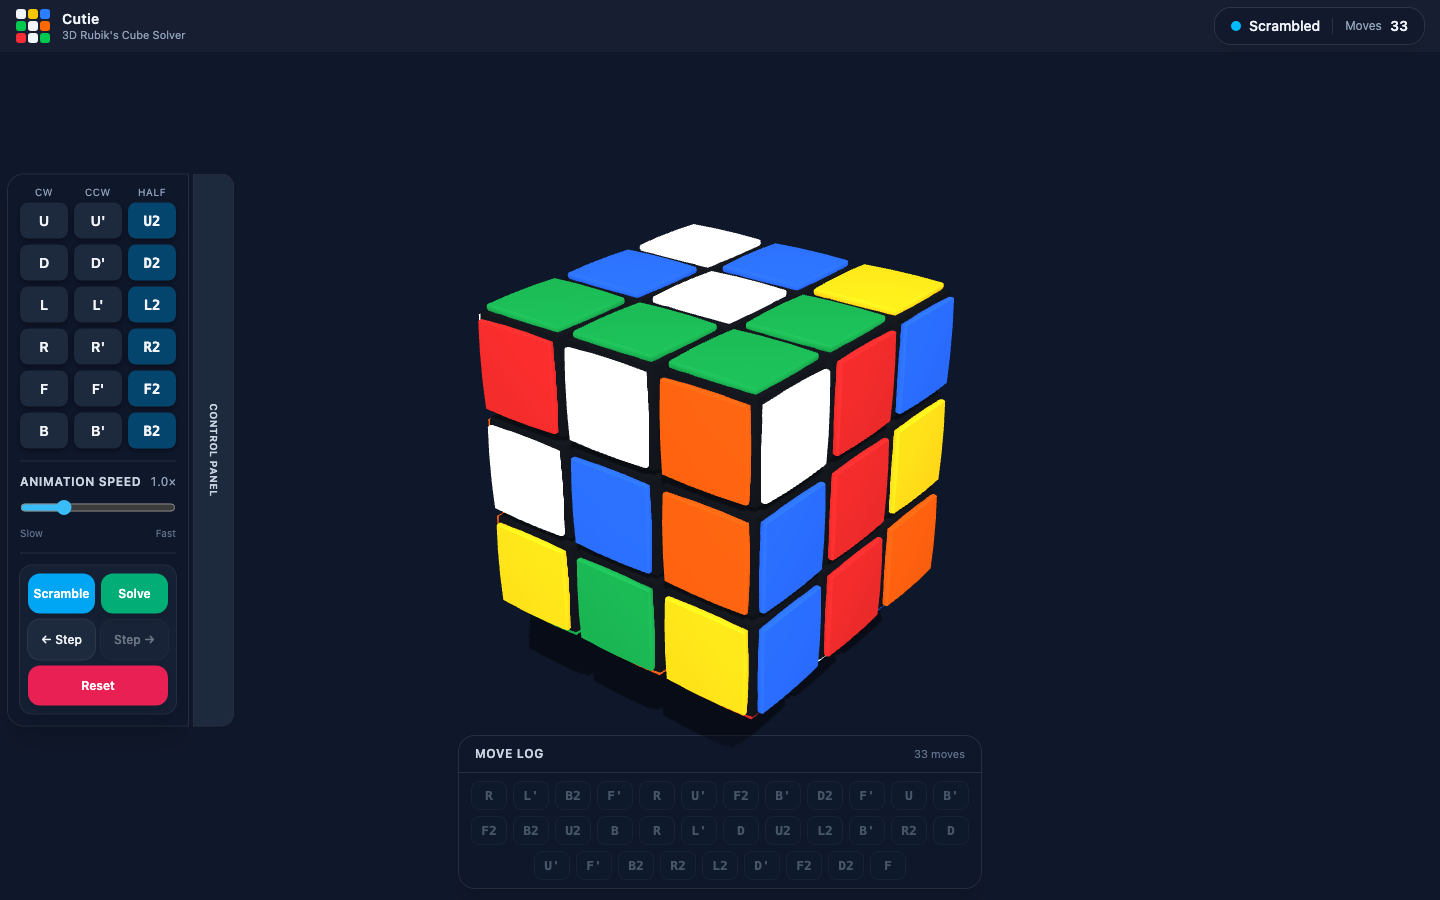
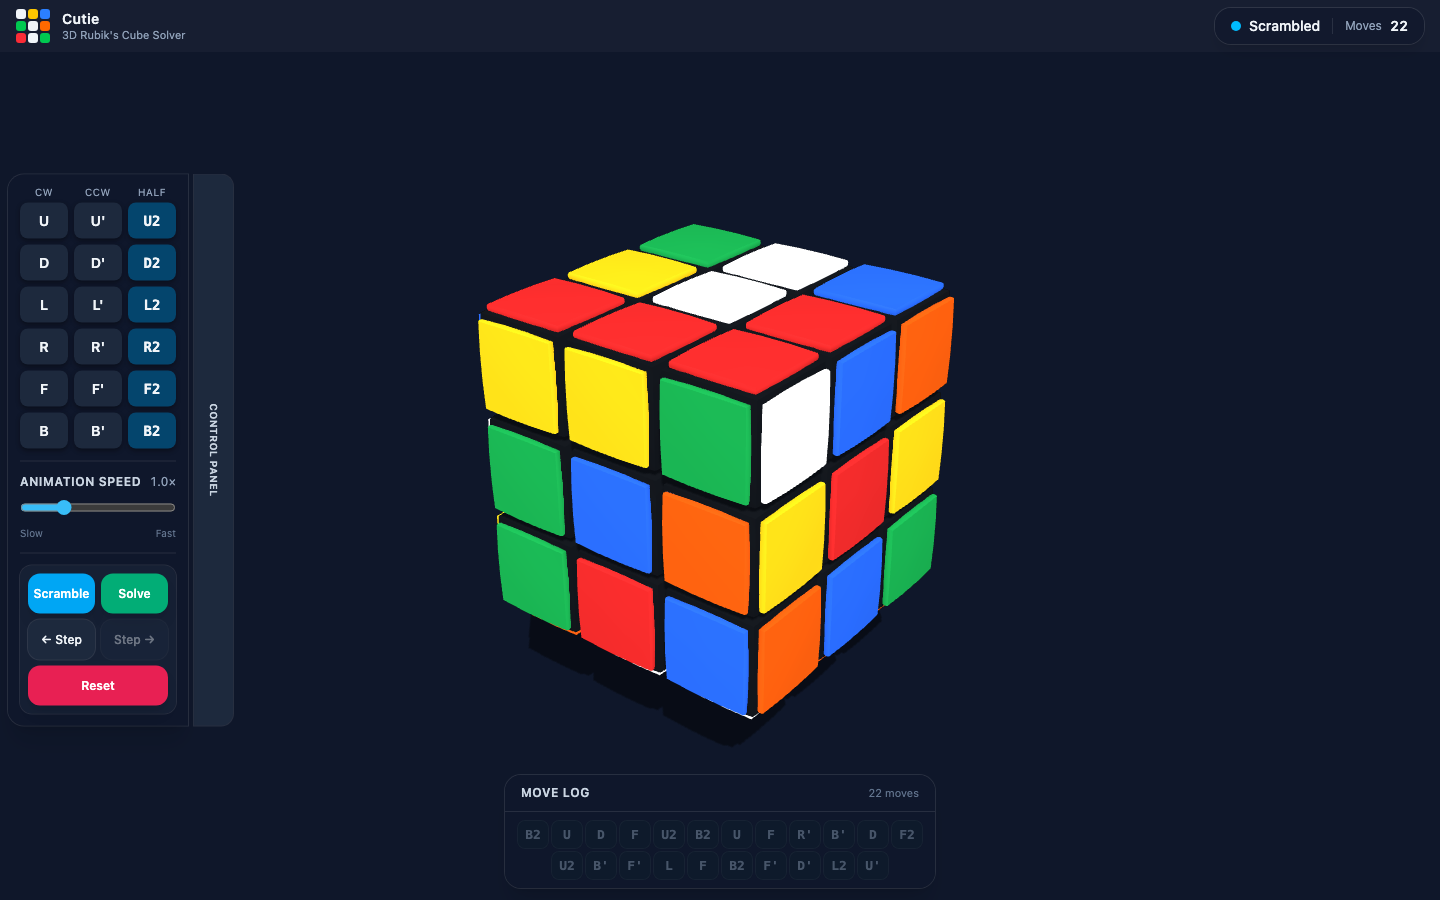
Tighten the Move Log, cap scrambles at 24, and rescale the toast
- Move Log: move buttons 40px -> 36px -> 32px (2rem, fixed, flex
  0 0 auto); button gap 6px -> 2px (gap-0.5); 12-per-row cap now
  calc(12*2rem + 11*0.125rem) = 406px (13 buttons need 440px, so
  the cap still guarantees <=12 per row).
- Scramble length: random range 18..35 -> 18..24 (inclusive);
  cursor-test range assertion and stale comments in tests/tools
  updated.
- Drag hint: whitespace-nowrap so it never wraps (verified
  single-line with no overflow at 360x780).
- Solver toast: label 40px -> 30px (text-[1.875rem]) and spinner
  48px -> 36px (w-9 h-9) - both shrunk by the same 0.75 ratio;
  card re-padded to natural toast sizing (gap-3 px-6 py-4, was
  gap-4 px-8 py-6). Overlay and show/hide logic untouched.
- Official screenshots regenerated; as-built doc updated for the
  range/nowrap (width + toast-text wording deferred).

diff --git a/index.html b/index.html
@@ -53,7 +53,7 @@
   .drawer-closed { transform: translateX(var(--drawer-shift)); }
   /* The tab reads vertically, like a binder tab on the panel's right edge. */
   .writing-vertical { writing-mode: vertical-rl; text-orientation: mixed; }
-  /* Move-log buttons: fixed 36px-wide tokens that wrap (up to 12 per row),
+  /* Move-log buttons: fixed 32px-wide tokens that wrap (up to 12 per row),
      styled to match the face buttons. The width is fixed — never a fluid grid
      fraction — so the wrap layout is identical at every screen size. Three
      visual states driven by state.playIndex:
@@ -63,7 +63,7 @@
   .move-btn {
     font-family: ui-monospace, SFMono-Regular, Menlo, monospace;
     font-size: 13px; font-weight: 600; line-height: 1;
-    width: 2.25rem; flex: 0 0 auto; /* fixed 36px: never stretches, always wraps */
+    width: 2rem; flex: 0 0 auto; /* fixed 32px: never stretches, always wraps */
     padding: 8px 0; text-align: center;
     border-radius: 8px; user-select: none;
     transition: background-color .12s ease, color .12s ease,
@@ -122,7 +122,7 @@
        wrapper is a full-width, bottom-anchored fixed strip that centers the
        card and lets pointer events pass through everywhere except the card
        itself (pointer-events-auto). The card hugs its content (up to 12 fixed
-       36px buttons per row) and caps at ~45vh: beyond that the log scrolls
+       32px buttons per row) and caps at ~45vh: beyond that the log scrolls
        internally (.scroll-thin) and the current move auto-scrolls into view.
        It overlays the full-viewport canvas with a backdrop blur — the cube
        and camera are untouched. -->
@@ -136,9 +136,9 @@
         <p id="log-empty" class="text-slate-500 text-xs leading-relaxed px-1 py-1">
           No moves yet. Use the buttons or keyboard to turn faces, then <b class="text-slate-300">Solve</b> to watch it come back.
         </p>
-        <!-- Fixed 36px buttons, up to 12 per row, wrapping to more rows and
-             centered; the max-width cap is 12 buttons + 11 gaps (0.375rem each). -->
-        <div id="log-list" class="flex flex-wrap justify-center gap-1.5 max-w-[calc(12*2.25rem+11*0.375rem)]"></div>
+        <!-- Fixed 32px buttons, up to 12 per row, wrapping to more rows and
+             centered; the max-width cap is 12 buttons + 11 gaps (0.125rem each). -->
+        <div id="log-list" class="flex flex-wrap justify-center gap-0.5 max-w-[calc(12*2rem+11*0.125rem)]"></div>
       </div>
     </section>
   </div>
@@ -210,15 +210,15 @@
   <!-- ======================= Solver loading toast =======================
        Full-viewport overlay, flex-centered, above canvas/drawers (z-50). -->
   <div id="solver-toast" class="fixed inset-0 z-50 flex items-center justify-center pointer-events-none hidden">
-    <div class="flex items-center gap-4 rounded-2xl bg-slate-900/80 backdrop-blur-md ring-1 ring-white/10 px-8 py-6 shadow-2xl">
-      <div class="w-12 h-12 border-[3px] border-sky-400 border-t-transparent rounded-full animate-spin"></div>
-      <span class="text-[2.5rem] text-slate-200">Waking up the ChipGPT-munk...</span>
+    <div class="flex items-center gap-3 rounded-2xl bg-slate-900/80 backdrop-blur-md ring-1 ring-white/10 px-6 py-4 shadow-2xl">
+      <div class="w-9 h-9 border-[3px] border-sky-400 border-t-transparent rounded-full animate-spin"></div>
+      <span class="text-[1.875rem] text-slate-200">Waking up the ChipGPT-munk...</span>
     </div>
   </div>
 
   <!-- Drag-to-rotate hint on the canvas -->
   <div id="drag-hint" class="fixed left-1/2 -translate-x-1/2 top-17 z-20 pointer-events-none">
-    <div class="rounded-xl bg-slate-900/60 backdrop-blur-sm ring-1 ring-white/10 px-3 py-1.5 text-sm text-slate-400">
+    <div class="rounded-xl bg-slate-900/60 backdrop-blur-sm ring-1 ring-white/10 px-3 py-1.5 text-sm text-slate-400 whitespace-nowrap">
       Drag to orbit · Scroll/Pinch to zoom
     </div>
   </div>
@@ -828,7 +828,7 @@
     const mods = ['', '2', "'"];
     const seq = [];
     let last = null;
-    const N = 18 + Math.floor(Math.random() * (35 - 18 + 1)); // random 18..35 inclusive
+    const N = 18 + Math.floor(Math.random() * (24 - 18 + 1)); // random 18..24 inclusive
     for (let i = 0; i < N; i++) {
       let f;
       do { f = faces[Math.floor(Math.random()*6)]; } while (f === last);

diff --git a/tools/render-screenshot.js b/tools/render-screenshot.js
@@ -121,7 +121,7 @@ async function main() {
 
   // ---- 2. Scrambled (drive the real Scramble button; control drawer open) ----
   // Clicking the button is what a user does, so the shot reflects the current
-  // scramble() (a random 18–35 move sequence) rather than a hard-coded one.  Wait
+  // scramble() (a random 18–24 move sequence) rather than a hard-coded one.  Wait
   // for the animation to finish, then render the log with every move as "done" so
   // the shot shows the full scramble as rows of move-buttons.
   await setDrawers(true);

diff --git a/tests/cursor-test.js b/tests/cursor-test.js
@@ -103,7 +103,7 @@ const app = {
 console.log('Scenario A: scramble, step back 3, solve from the stepped state');
 app.scramble();
 const nA = app.moves.length;
-assert(nA >= 18 && nA <= 35, `scramble applied a random 18..35 moves (got ${nA})`);
+assert(nA >= 18 && nA <= 24, `scramble applied a random 18..24 moves (got ${nA})`);
 assert(app.cursor === nA, 'cursor == move count after scramble');
 app.stepBackward(); app.stepBackward(); app.stepBackward();
 assert(app.cursor === nA - 3, `cursor stepped back to ${nA - 3} (got ${app.cursor})`);

diff --git a/tests/step-buttons-test.js b/tests/step-buttons-test.js
@@ -68,7 +68,7 @@ function findExecutable() {
   const stepBwd = page.locator('#btn-stepbwd');
   const stepFwd = page.locator('#btn-stepfwd');
 
-  // Run everything fast so the (random 18-35 move) scramble batch drains quickly
+  // Run everything fast so the (random 18-24 move) scramble batch drains quickly
   // within the wait timeouts. The speed slider drives state.speed (0.3x-3x).
   const setSpeed = async (v) => {
     await page.evaluate((val) => {

diff --git a/docs/as-built/cutie_current.md b/docs/as-built/cutie_current.md
@@ -129,7 +129,7 @@ columns):
 
 | Button | Action |
 |--------|--------|
-| **Scramble** | Random 18–35 move scramble, no two consecutive same-face, animated. Clears the log first. |
+| **Scramble** | Random 18–24 move scramble, no two consecutive same-face, animated. Clears the log first. |
 | **Solve** | Clear the log, then compute the solution via cubejs from the cube's current state and animate it step-by-step. |
 | **← Step** | Step the current position back one move (animate the inverse); the move stays in the log to replay. **Disabled at the start of the log** (cursor 0, nothing applied to undo). |
 | **Step →** | Advance the current step one move (replay the next move in the log) and stop. **Disabled at the end of the log** (cursor == log length, nothing future to replay). |
@@ -238,7 +238,7 @@ buttons don't flicker while a sequence animates (see the *Cursor model* note in
 
 ### Misc
 - **Drag-to-rotate hint**: a small pill, centered horizontally near the top
-  (`top-17`), "Drag to orbit · Scroll/Pinch to zoom"; it fades out on the **first keypress
+  (`top-17`), "Drag to orbit · Scroll/Pinch to zoom" — single line, `whitespace-nowrap` so it never wraps (even at narrow phone widths); it fades out on the **first keypress
   or pointerdown** (via a capture-phase `document` listener that fires before the app's
   handlers), then removes itself from the DOM. Respects
   `prefers-reduced-motion: reduce` — skips the fade animation and removes immediately.
@@ -365,7 +365,7 @@ drains (`settle` refreshes them once). Checks, in order:
   live; walked all the way back, `← Step` disables again.
 - Disabled flags are read from the buttons' `disabled` DOM property (regardless
   of the control drawer's state), and the test runs at 3× speed so the
-  random 18–35 move scramble drains within its wait timeout.
+  random 18–24 move scramble drains within its wait timeout.
 - Run: `node tests/step-buttons-test.js` (`npm run test:step`).
 
 ### `tools/render-screenshot.js`

diff --git a/tests/README.md b/tests/README.md
@@ -151,7 +151,7 @@ once when it drains. Checks, in order:
 
 The disabled flags are read straight from the buttons' `disabled` DOM property
 (works whether or not the control drawer is open), and the test runs at 3× speed
-so the random 18–35 move scramble drains within its wait timeout.
+so the random 18–24 move scramble drains within its wait timeout.
 
 Drives the real `index.html` in headless Chromium via the `window.__RUBIKS__`
 test hook.
